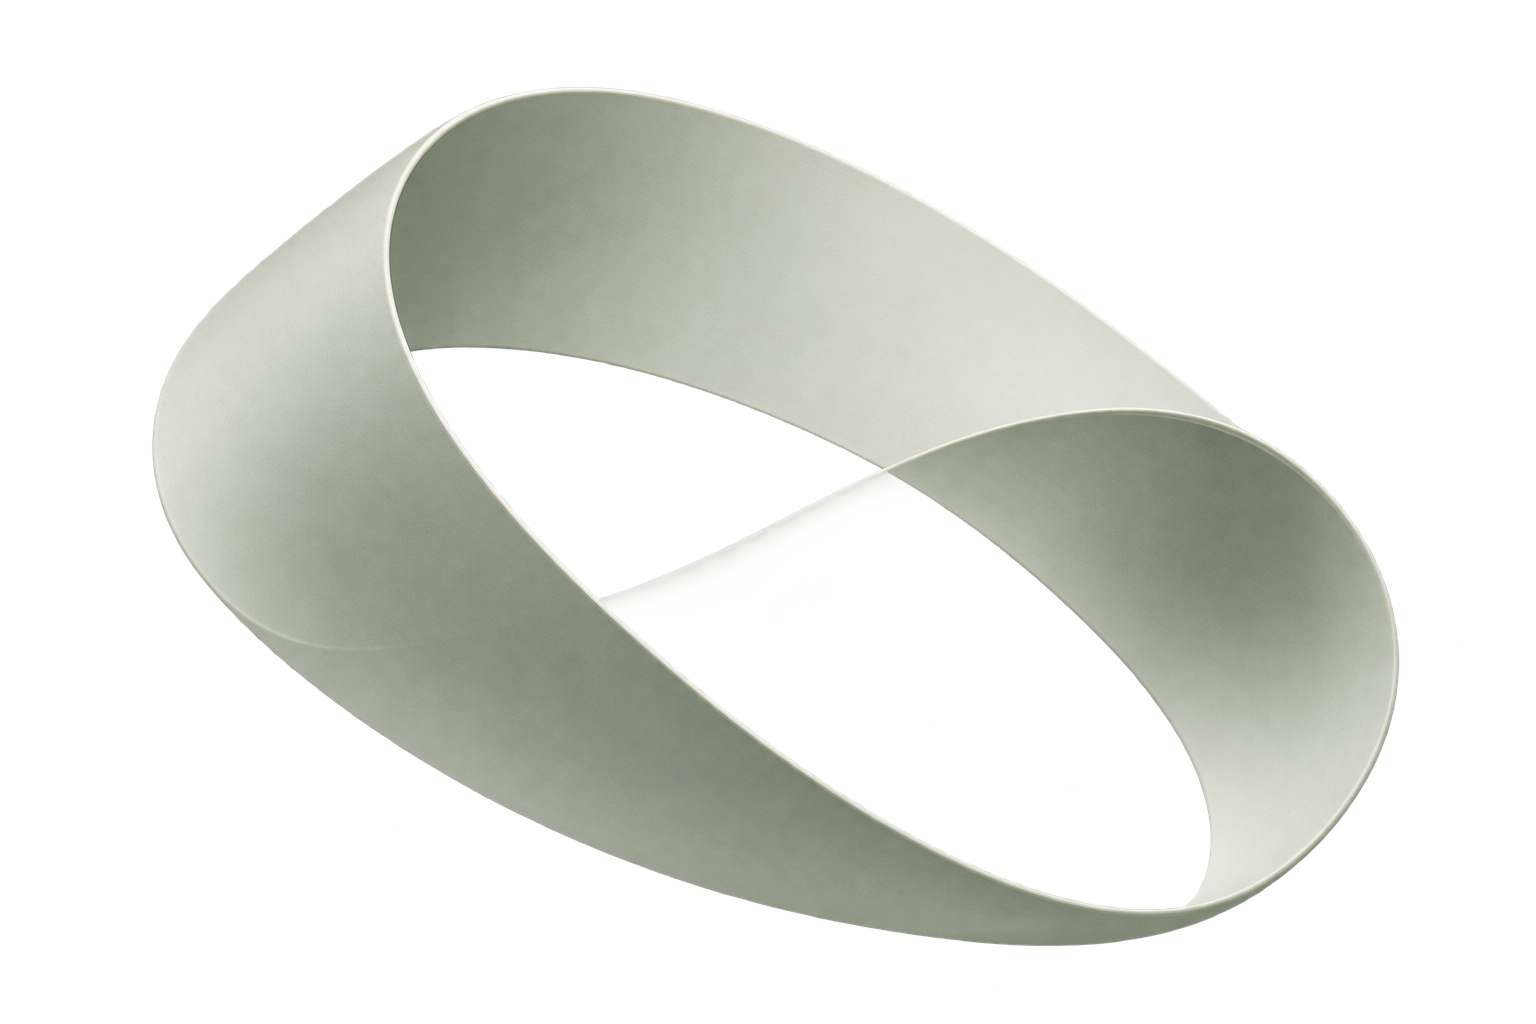
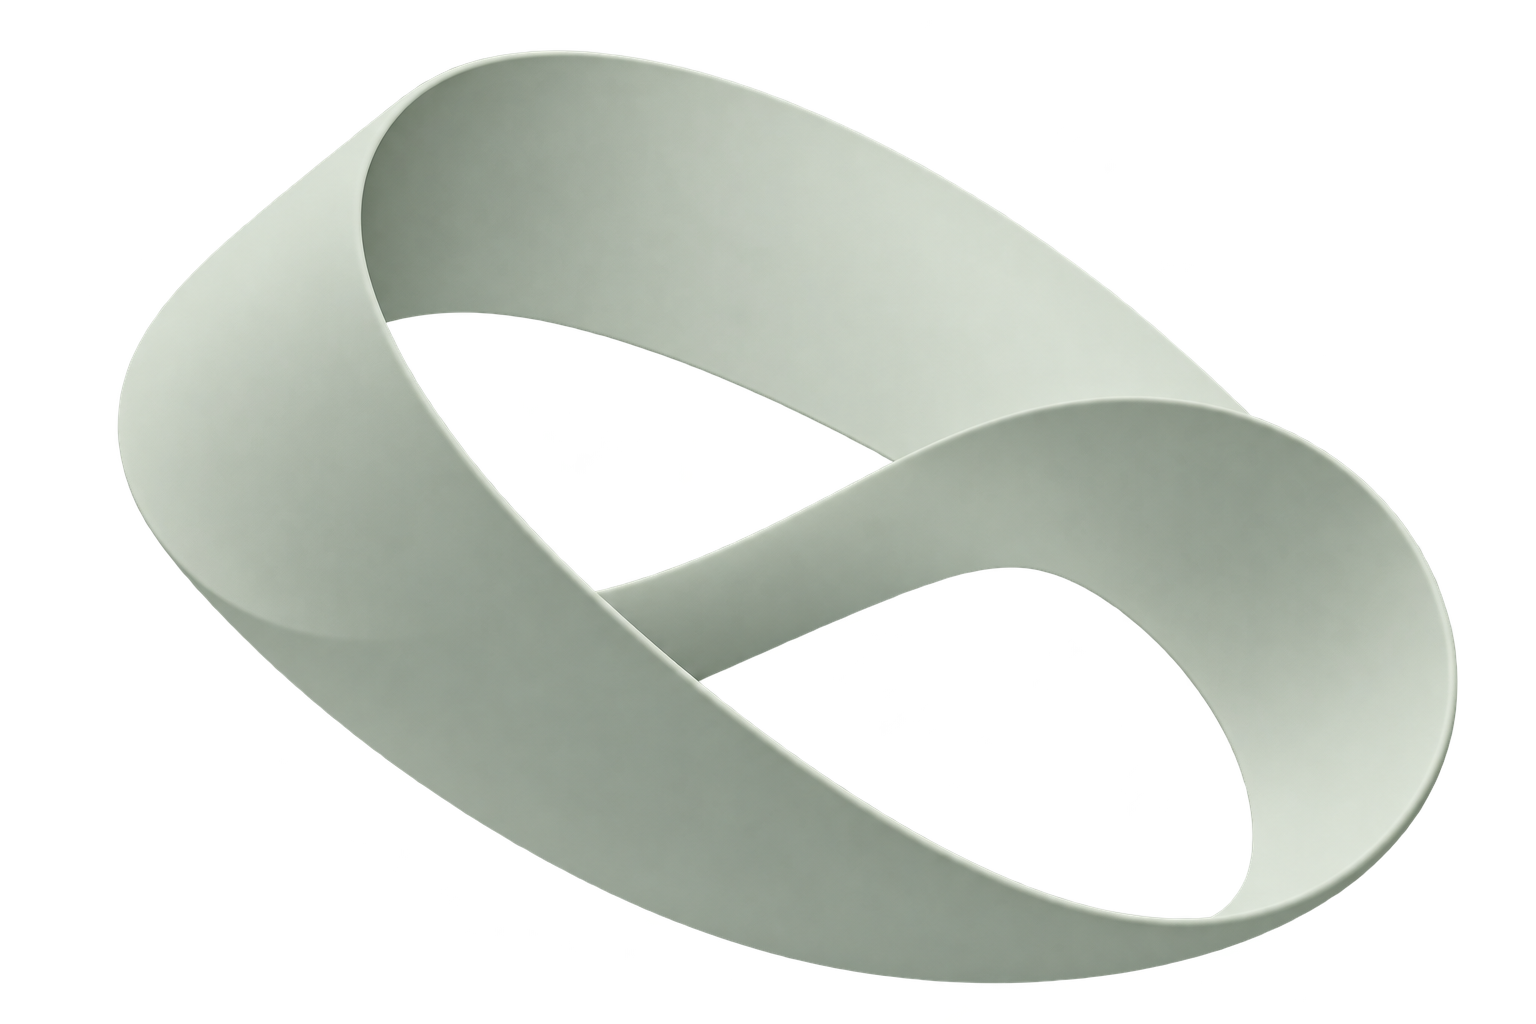
Prepare CONNECT v0.2.3 with approved matte ribbon and native installer smoke check

diff --git a/frontend/tests/installer.spec.ts b/frontend/tests/installer.spec.ts
@@ -7,11 +7,11 @@ for(const theme of ['light','dark'])for(const uninstall of [false,true])test(`${
  await page.route('**/*',async route=>{const url=new URL(route.request().url());
  if(url.pathname.startsWith('/api/')){const action=url.pathname.slice(5);calls.push({action,data:route.request().postDataJSON()});expect(route.request().headers()['x-setup-token']).toBe('test-token');if(['install','uninstall'].includes(action)){if(gate)await gate;if(fail)return route.fulfill({status:500,json:{error:'busy'}})}return route.fulfill({json:action==='progress'?{progress}:action==='folder'?{path:'D:\\Apps\\CONNECT'}:{ok:true}})}
  if(url.pathname==='/wails/runtime.js')return route.fulfill({contentType:'application/javascript',body:'window.wails={Window:{Minimise(){window.didMinimize=true}}}'});
- const file=path.resolve(root,url.pathname==='/'?'index.html':url.pathname.slice(1));if(!file.startsWith(root+path.sep))throw Error('asset');let body=fs.readFileSync(file);if(file.endsWith('index.html'))body=Buffer.from(body.toString().replace('__TOKEN__','test-token').replace('__MODE__',String(uninstall)).replace('__CONFIG__',JSON.stringify({path:'C:\\Program Files\\Connect',version:'0.2.2'})));await route.fulfill({body,contentType:({'.js':'application/javascript','.css':'text/css','.png':'image/png','.ttf':'font/ttf'} as any)[path.extname(file)]||'text/html'});
+ const file=path.resolve(root,url.pathname==='/'?'index.html':url.pathname.slice(1));if(!file.startsWith(root+path.sep))throw Error('asset');let body=fs.readFileSync(file);if(file.endsWith('index.html'))body=Buffer.from(body.toString().replace('__TOKEN__','test-token').replace('__MODE__',String(uninstall)).replace('__CONFIG__',JSON.stringify({path:'C:\\Program Files\\Connect',version:'0.2.3'})));await route.fulfill({body,contentType:({'.js':'application/javascript','.css':'text/css','.png':'image/png','.ttf':'font/ttf'} as any)[path.extname(file)]||'text/html'});
  });
  await page.goto('/');await page.evaluate(()=>document.fonts.ready);await page.evaluate(theme=>{document.getElementById('ru')!.click();document.getElementById(theme)!.click()},theme);
  const snap=async(stage:string)=>{expect(await page.evaluate(()=>document.documentElement.scrollHeight<=innerHeight)).toBe(true);if(process.env.CONNECT_PREVIEW_DIR){fs.mkdirSync(process.env.CONNECT_PREVIEW_DIR,{recursive:true});await page.screenshot({path:path.join(process.env.CONNECT_PREVIEW_DIR,`${theme}-${uninstall?'uninstall-':''}${stage}.png`)})}};
- await expect(page.locator('#version')).toHaveText('Версия 0.2.2');await snap('welcome');await page.locator('#minimize').click();await expect.poll(()=>page.evaluate(()=>(window as any).didMinimize)).toBe(true);
+ await expect(page.locator('#version')).toHaveText('Версия 0.2.3');await snap('welcome');await page.locator('#minimize').click();await expect.poll(()=>page.evaluate(()=>(window as any).didMinimize)).toBe(true);
  if(!uninstall){await page.locator('#settingsButton').click();await snap('settings');await page.locator('#en').click();await expect(page.locator('#accept')).toHaveText('Accept and install');await page.locator('#ru').click();await page.locator('#browse').click();await expect(page.locator('#path')).toHaveValue('D:\\Apps\\CONNECT');await page.locator('#desktop').uncheck();await page.locator('#startMenu').uncheck();await page.locator('#chrome').uncheck();await page.locator('#back').click()}
  await page.locator('#primary').click();await expect(page.locator('#error')).toBeVisible();fail=false;gate=new Promise(r=>release=r);await page.locator('#retry').click();await expect(page.locator('#installing')).toBeVisible();progress=45;await expect(page.locator('#progress')).toHaveAttribute('value','45');await expect(page.locator('#close')).toBeDisabled();await snap('progress');release();await expect(page.locator('#finish')).toBeVisible();await snap('finish');
  if(!uninstall){expect(calls.filter(c=>c.action==='install').at(-1)!.data).toEqual({desktop:false,startMenu:false,chrome:false,path:'D:\\Apps\\CONNECT'});expect(calls.some(c=>c.action==='chrome')).toBe(false);await page.locator('#launch').uncheck()}
@@ -21,7 +21,7 @@ for(const theme of ['light','dark'])test(`${theme} default Chrome retry and laun
  let chromeCalls=0,installs=0;const calls:string[]=[];
  await page.route('**/*',async route=>{const p=new URL(route.request().url()).pathname;
  if(p.startsWith('/api/')){const action=p.slice(5);calls.push(action);if(action==='install'){installs++;expect(route.request().postDataJSON()).toEqual({desktop:true,startMenu:true,chrome:true,path:'C:\\Program Files\\Connect'})}if(action==='chrome'&&++chromeCalls===1)return route.fulfill({status:500,json:{error:'Chrome unavailable'}});return route.fulfill({json:{ok:true}})}
- if(p==='/wails/runtime.js')return route.fulfill({body:''});const file=path.resolve(root,p==='/'?'index.html':p.slice(1));let body=fs.readFileSync(file);if(file.endsWith('index.html'))body=Buffer.from(body.toString().replace('__TOKEN__','test-token').replace('__MODE__','false').replace('__CONFIG__',JSON.stringify({path:'C:\\Program Files\\Connect',version:'0.2.2'})));await route.fulfill({body,contentType:({'.js':'application/javascript','.css':'text/css','.png':'image/png','.ttf':'font/ttf'} as any)[path.extname(file)]||'text/html'});
+ if(p==='/wails/runtime.js')return route.fulfill({body:''});const file=path.resolve(root,p==='/'?'index.html':p.slice(1));let body=fs.readFileSync(file);if(file.endsWith('index.html'))body=Buffer.from(body.toString().replace('__TOKEN__','test-token').replace('__MODE__','false').replace('__CONFIG__',JSON.stringify({path:'C:\\Program Files\\Connect',version:'0.2.3'})));await route.fulfill({body,contentType:({'.js':'application/javascript','.css':'text/css','.png':'image/png','.ttf':'font/ttf'} as any)[path.extname(file)]||'text/html'});
  });
  await page.goto('/');await page.evaluate(theme=>{document.getElementById('ru')!.click();document.getElementById(theme)!.click()},theme);await page.locator('#primary').click();await expect(page.locator('#finish')).toBeVisible();await expect(page.locator('#error')).toBeVisible();await page.locator('#chromeSetup').click();await expect(page.locator('#chromeNote')).toContainText('Ctrl+V');await expect(page.locator('#failure')).toBeHidden();expect(installs).toBe(1);expect(chromeCalls).toBe(2);if(process.env.CONNECT_PREVIEW_DIR)await page.screenshot({path:path.join(process.env.CONNECT_PREVIEW_DIR,`${theme}-finish-chrome.png`)});await page.locator('#done').click();await expect.poll(()=>calls.slice(-2)).toEqual(['open','close']);
 });

diff --git a/cmd/installer/web/index.html b/cmd/installer/web/index.html
@@ -1,9 +1,9 @@
 <!doctype html>
 <html lang="ru" data-theme="light"><head><meta charset="utf-8"><meta name="viewport" content="width=device-width,initial-scale=1"><title>CONNECT VPN</title><link rel="stylesheet" href="style.css"></head>
 <body><div class="shell"><header><div class="tools"><button id="minimize" aria-label="Свернуть">−</button><button id="close" aria-label="Закрыть">×</button></div></header><main>
-<section id="welcome" class="welcome"><div class="intro"><p id="eyebrow" class="eyebrow"></p><h1>CONNECT VPN</h1><p id="removeDescription" class="muted" hidden></p><button id="primary" class="primary"></button><button id="settingsButton" class="text-button"></button></div><img class="ribbon" src="assets/mobius-refined.png" alt=""></section>
+<section id="welcome" class="welcome"><div class="intro"><p id="eyebrow" class="eyebrow"></p><h1>CONNECT VPN</h1><p id="removeDescription" class="muted" hidden></p><button id="primary" class="primary"></button><button id="settingsButton" class="text-button"></button></div><img class="ribbon" src="assets/mobius.png" alt=""></section>
 <section id="settings" hidden><div class="settings-heading"><h2 id="settingsTitle"></h2><button id="back" class="text-button"></button></div><div class="setting-line"><span id="languageLabel"></span><div class="choices"><button id="ru">RU</button><button id="en">EN</button></div><span id="themeLabel"></span><div class="choices"><button id="light"></button><button id="dark"></button></div></div><label id="pathLabel" for="path"></label><div id="pathRow" class="path-line"><input id="path" spellcheck="false"><button id="browse" class="outlined"></button></div><label id="desktopRow" class="switch-row"><input id="desktop" type="checkbox" role="switch" checked><span class="switch"></span><span id="desktopLabel"></span></label><label id="menuRow" class="switch-row"><input id="startMenu" type="checkbox" role="switch" checked><span class="switch"></span><span id="menuLabel"></span></label><label id="chromeRow" class="switch-row"><input id="chrome" type="checkbox" role="switch" checked><span class="switch"></span><span id="chromeLabel"></span></label><p id="extensionHint" class="hint"></p><button id="accept" class="primary"></button></section>
-<section id="installing" hidden><img class="progress-ribbon" src="assets/mobius-refined.png" alt=""><div class="progress-bottom"><progress id="progress" max="100" value="0"></progress><p id="status" role="status"></p></div></section>
+<section id="installing" hidden><img class="progress-ribbon" src="assets/mobius.png" alt=""><div class="progress-bottom"><progress id="progress" max="100" value="0"></progress><p id="status" role="status"></p></div></section>
 <section id="finish" hidden><h1>CONNECT VPN</h1><p id="success" role="status"></p><div id="chromeGuide" hidden><p id="chromeNote" class="hint"></p><button id="chromeSetup" class="text-button"></button></div><button id="done" class="primary"></button><label id="launchRow" class="switch-row"><input id="launch" type="checkbox" role="switch" checked><span class="switch"></span><span id="launchLabel"></span></label></section>
 <div id="failure" hidden><p id="error" role="alert"></p><button id="retry" class="text-button"></button></div></main><footer><span>by CONNECT.</span><span id="version"></span></footer></div>
 <script>window.setupToken="__TOKEN__";window.uninstallMode=__MODE__;window.setupConfig=__CONFIG__;</script><script type="module" src="/wails/runtime.js"></script><script src="setup.js"></script></body></html>

diff --git a/cmd/installer/main.go b/cmd/installer/main.go
@@ -36,7 +36,7 @@ var chromeFiles embed.FS
 //go:embed web/assets/icon.png
 var icon []byte
 
-var version = "0.2.2" // Overridden from the application package by build-installer.ps1.
+var version = "0.2.3" // Overridden from the application package by build-installer.ps1.
 const uninstallKey = `Software\Microsoft\Windows\CurrentVersion\Uninstall\ConnectApp`
 
 var machineRegistry = registry.LOCAL_MACHINE

diff --git a/internal/updates/manager.go b/internal/updates/manager.go
@@ -22,7 +22,7 @@ import (
 	"time"
 )
 
-const AppVersion = "0.2.2"
+const AppVersion = "0.2.3"
 
 var operations sync.Mutex
 

diff --git a/build/windows/release-notes.md b/build/windows/release-notes.md
@@ -1,10 +1,10 @@
-Connect 0.2.2 · Windows 10/11 x64
+Connect 0.2.3 · Windows 10/11 x64
 
-- Remember the desktop window position across restarts, with recovery into the visible work area when monitors change.
-- Align the Chrome extension version with the application: 0.2.2.
-- Disconnect the browser VPN when the last Chrome window closes, including background mode. New browser sessions start disconnected; profiles and preferences are preserved.
-- Tie browser core processes to the native helper lifetime, including abrupt Chrome termination.
+- New CONNECT VPN installer: 840×540, Montserrat, cream/light and neutral dark themes, and the approved matte sage Möbius ribbon.
+- Installation settings: immediate RU/EN and theme selection, destination folder, and switches for desktop shortcut, Start menu shortcut and Chrome extension.
+- Completed-stage installation progress and Done with an optional application launch.
+- Existing installations update in place. Running CONNECT/Chrome helpers are never forcibly terminated: quit CONNECT through its tray menu and disconnect the extension, then retry.
+- Chrome extension preparation is optional. Loading or updating it in Chrome remains a manual step; the installer copies its folder path and opens the extensions page.
+- Existing profiles and settings are preserved. Application and VPN behavior are unchanged apart from release-version metadata.
 
-Existing interface, palettes, Montserrat, window dimensions and protocol settings are unchanged. Updates and rollback remain immediate, without confirmation dialogs.
-
-Close Connect and disable its Chrome extension before installation, then reload/re-enable the extension. Profiles are preserved. Executables remain unsigned.
+The installed application version is shown in the bottom-right corner of the installer. Executables remain unsigned.

diff --git a/README.md b/README.md
@@ -52,7 +52,7 @@ The desktop window remembers its last position across launches. If a monitor is 
 
 **Your connections, directly in the popup.** Click **Add**, paste a link or client configuration, and let Connect detect the protocol. Each saved connection has a small switch. Turning on another connection turns the previous one off; turning off the active switch disconnects. There is no separate settings page. Switch between Russian and English or light and dark themes directly in the header; both preferences are remembered.
 
-The extension and application share version 0.2.2. Closing the last normal or popup Chrome window disconnects the browser VPN, including when Chrome remains running in the background. A new browser session starts disconnected; saved connections and preferences remain available. Suspending/restarting the extension service worker during the same browser session preserves an explicitly enabled connection.
+The extension and application share version 0.2.3. Closing the last normal or popup Chrome window disconnects the browser VPN, including when Chrome remains running in the background. A new browser session starts disconnected; saved connections and preferences remain available. Suspending/restarting the extension service worker during the same browser session preserves an explicitly enabled connection.
 
 Chrome starts its own local helper, so the desktop window can remain closed. Browser profiles are stored independently in `%APPDATA%\connect-chrome`. The helper does not change Windows proxy settings, DNS or routes.
 

diff --git a/docs/installer-refresh-audit.md b/docs/installer-refresh-audit.md
@@ -38,3 +38,7 @@ The installed working CONNECT/Chrome on this computer must remain untouched. The
 No tag, release, main merge or auto-merge is authorized. Keep the PR draft until Windows CI and the remaining interactive checks are reviewed and the user explicitly permits release.
 
 Native preview attempt: a separate non-elevated copy was launched with a disposable WebView2 profile. It did not expose a usable window/CDP endpoint to the test harness, so native window rendering/minimize/folder-picker checks remain unverified. Only this test-owned preview process was stopped; installed CONNECT processes were left running. Do not infer a successful native launch from the successful build or Chrome-rendered screenshots.
+
+## Release authorization: 2026-10-19
+
+The user approved matte ribbon variant B and explicitly authorized publishing v0.2.3. This supersedes the earlier no-merge/no-release instruction after final checks pass. Release metadata is updated consistently; no VPN/application behavior changes are introduced. A native installer-window create/close smoke check is now required by the Windows workflow. The disposable review workflow using an already published payload was removed: release validation builds both application and installer from the same commit.
